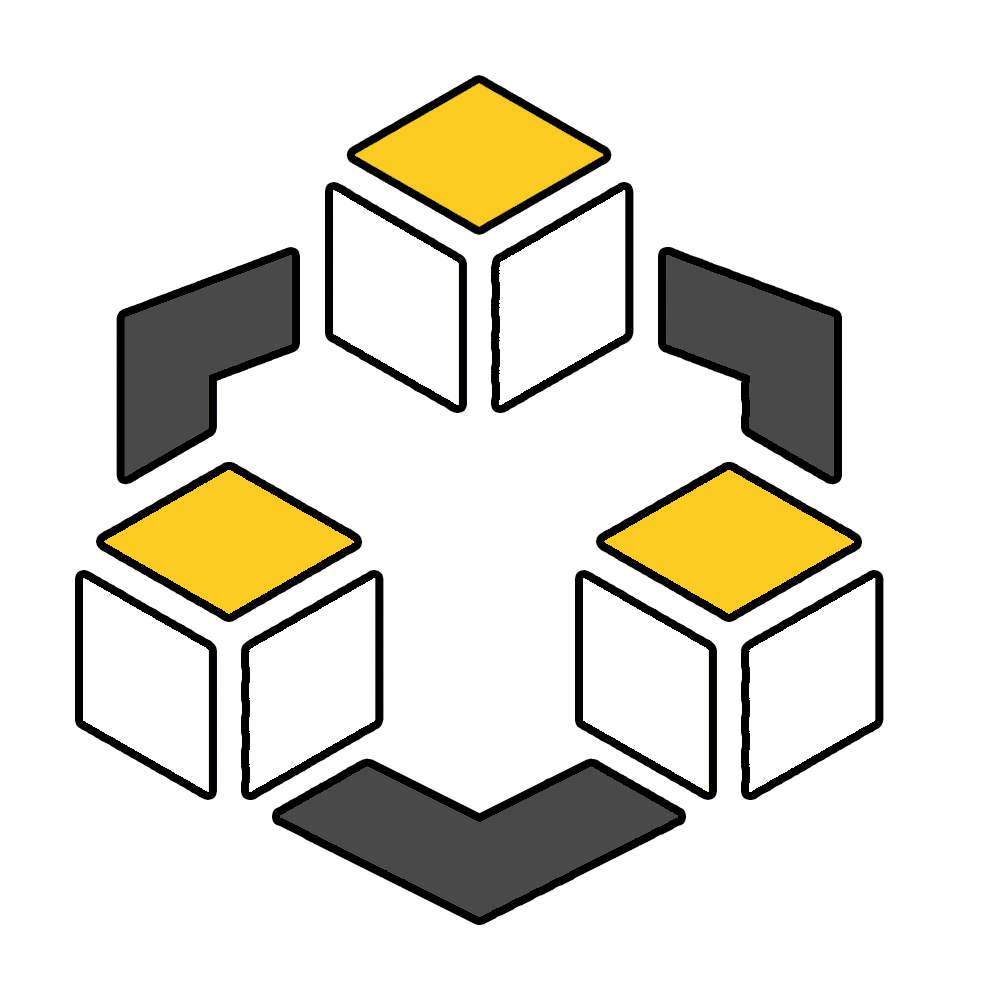
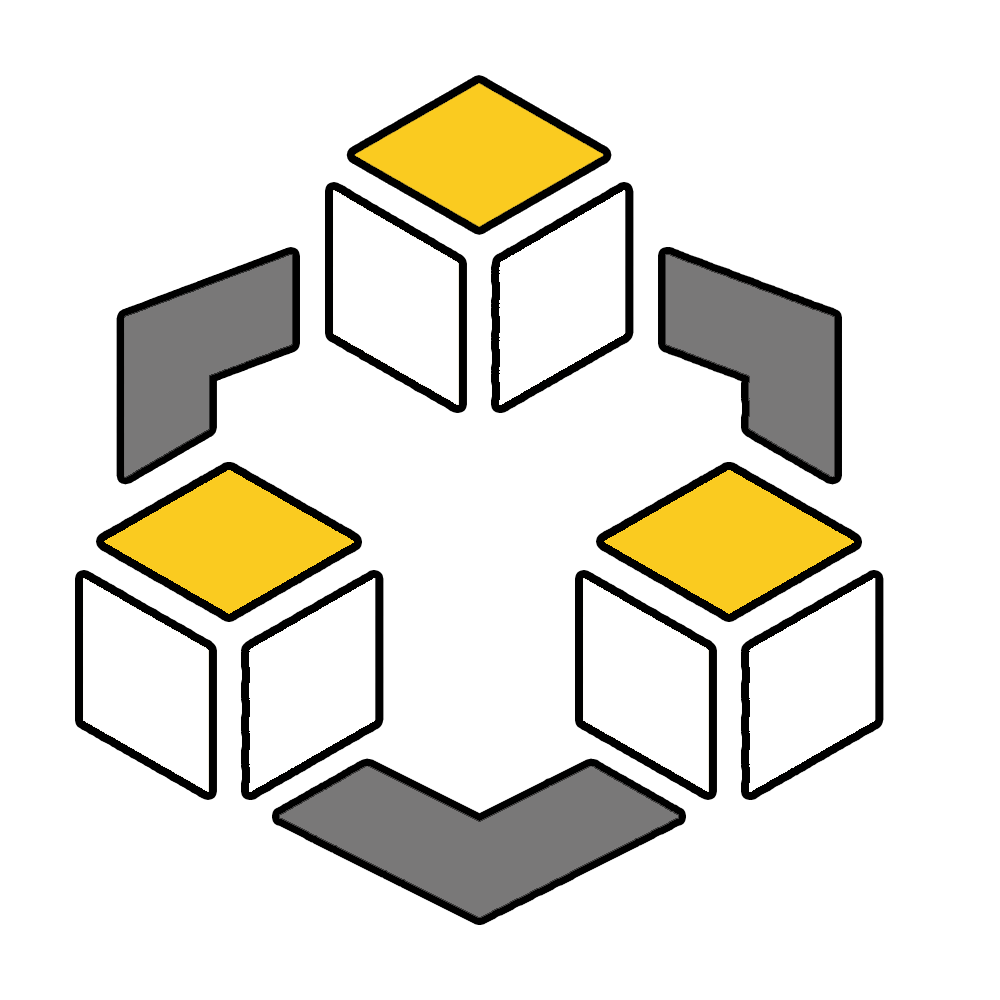
Update styles and color theme of pages

Changed region(s): [[0.279, 0.744, 0.682, 0.93], [0.651, 0.248, 0.837, 0.496], [0.124, 0.248, 0.31, 0.496]]

diff --git a/src/main/resources/static/css/style.css b/src/main/resources/static/css/style.css
@@ -5,7 +5,7 @@
     box-sizing: border-box;
 }
 header {
-    background-color: #637273;
+    background-color: #546973;
     position: grid;
     height: 5em;
     color: white;
@@ -229,6 +229,7 @@ footer {
 .categories {
     background-color: #F3F3F7;
     border-radius: 5px;
+    height: 33.5em;
 }
 .categories h3 {
     text-align: center;
@@ -252,6 +253,8 @@ footer {
     margin-left: 1%;
     background-color: #F3F3F7;
     text-align: center;
+    overflow-y: scroll;
+    height: 33.5em;
 }
 .prods {
     background-color: white;
@@ -262,7 +265,7 @@ footer {
     grid-template-columns: 30% 55% 15%;
 }
 .buy_product {
-    background-color: #637273;
+    background-color: #546973;
     color: white;
     text-decoration: none;
     display: block;
@@ -283,7 +286,7 @@ footer {
     padding-bottom: 5%;
 }
 .product_name {
-    color: #637273;
+    color: #546973;
     font-size: 140%;
     font-weight: bold;
 }

diff --git a/src/main/resources/templates/catalog.html b/src/main/resources/templates/catalog.html
@@ -33,9 +33,7 @@
                     </div>
                 </div>
             </div>
-            <div class="product_list" id="productListContainer">
-                
-            </div>
+            <div class="product_list" id="productListContainer"></div>
         </div>
     </main>
     <script src="js/catalog.js"></script>

diff --git a/src/main/resources/static/js/catalog.js b/src/main/resources/static/js/catalog.js
@@ -20,7 +20,7 @@ for (let i = 0; i < categoriesList.length; i++)
 // Функция для выделения категории
 function selectCategory(category)
 {
-    category.style.backgroundColor = "#637273";
+    category.style.backgroundColor = "#546973";
     category.style.color = "white";
 }
 
